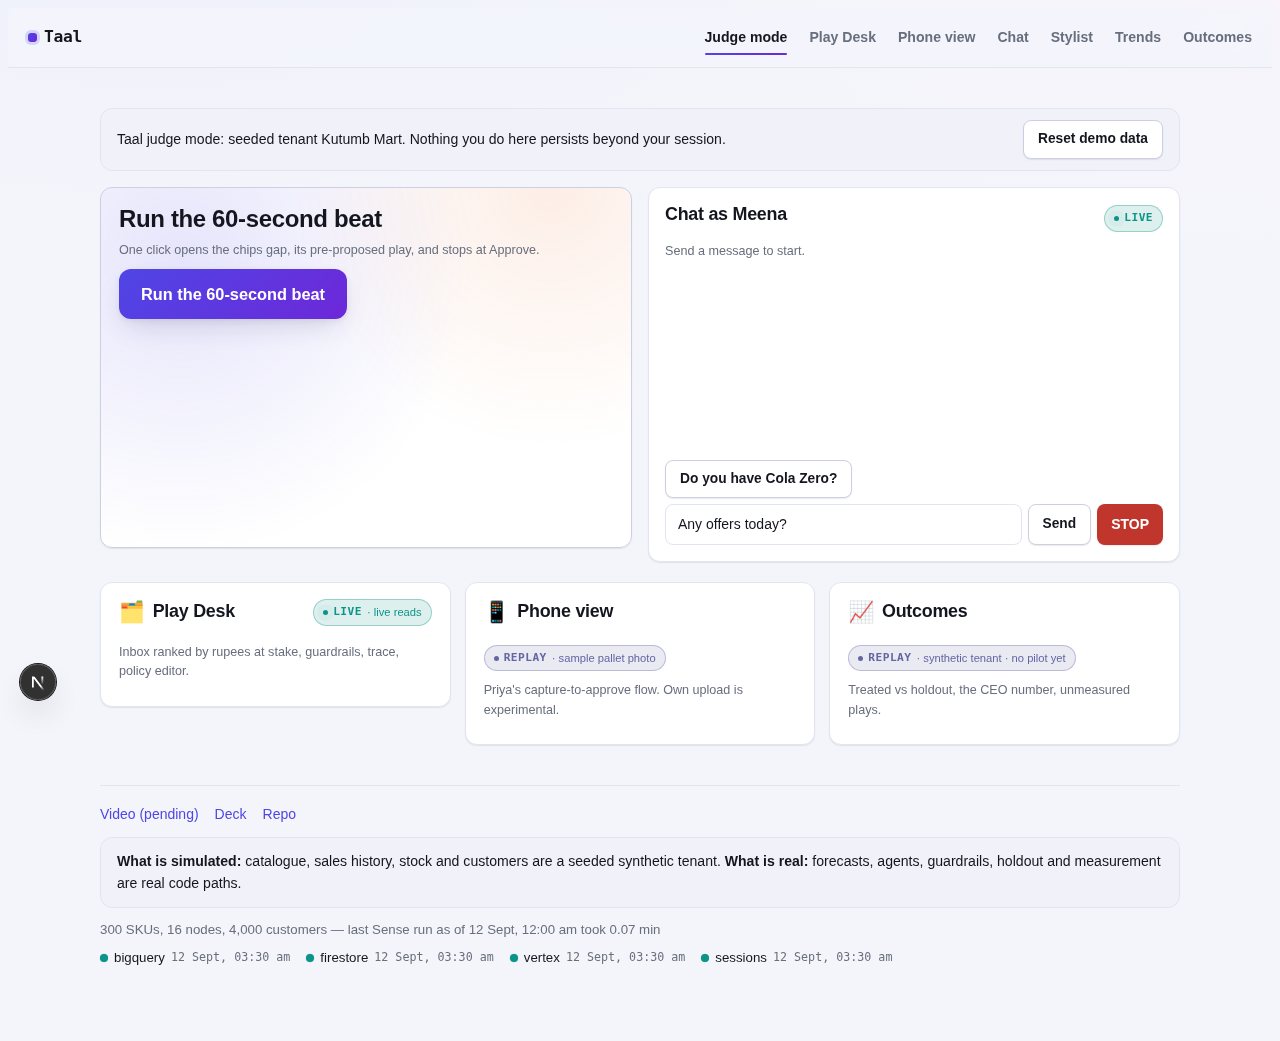
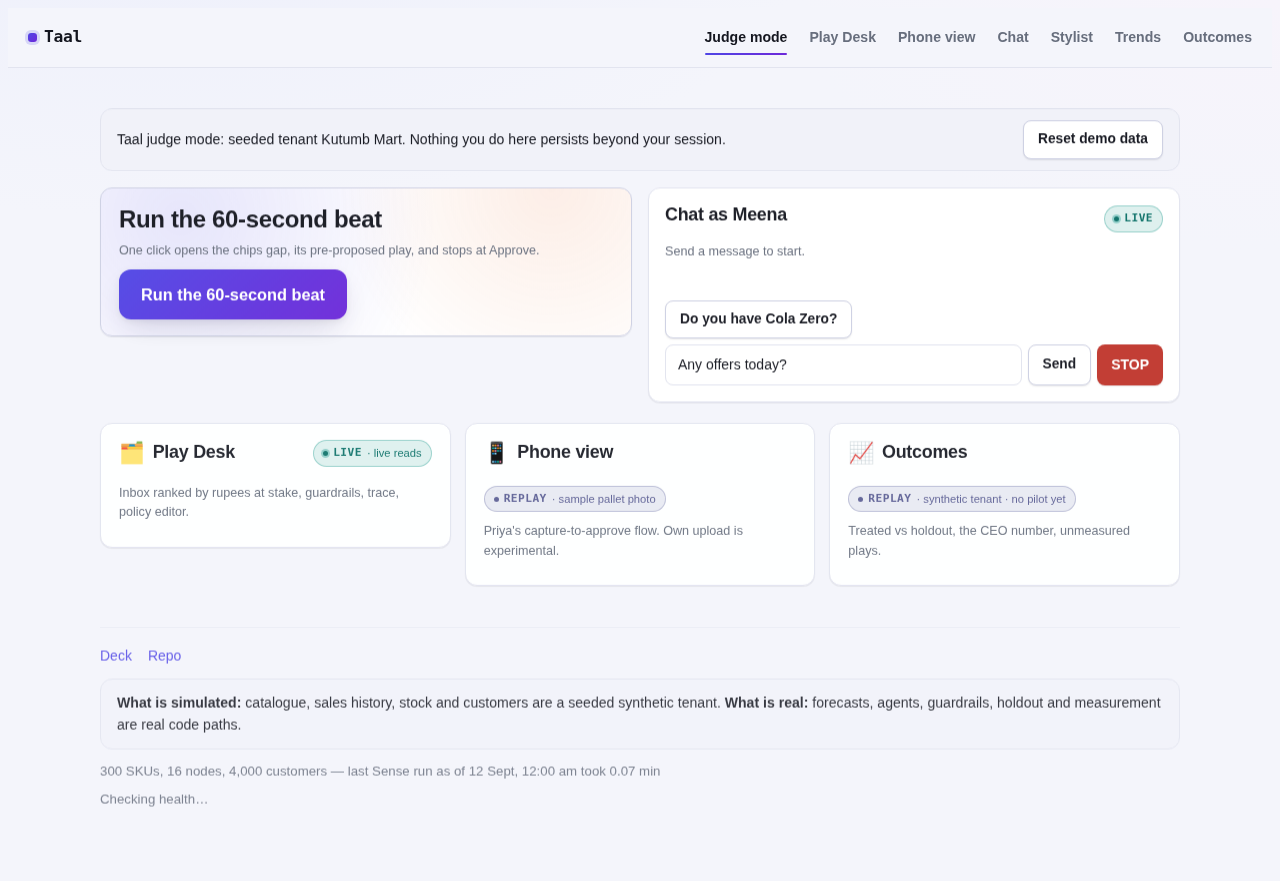
Fix sticky-nav contrast, oversized chat box, undersized hero chart
Confirmed all three in a real browser (Playwright against the live
stack) before changing anything:

- Sticky nav overlaying content mid-scroll (Play Desk, Stylist, and
  others): .top-nav's background was only 78% opaque, so scrolled-past
  headings and badges showed through at low contrast, visually
  colliding with the nav links sitting on top of them. Raised to 96%
  opaque; the backdrop blur now only softens the seam instead of
  doubling as the only separation.
- Oversized empty chat box (landing hero, standalone /chat and
  /stylist): .chat-panel__list had a 220px min-height, so a single
  "Send a message to start." line reserved a large blank area below
  it; on the landing page this was compounded by .chat-panel's
  `height: 100%` stretching to match the beat card's height as it grew
  through the walkthrough. Lowered the min-height to 60px, removed the
  stretch, and gave the hero grid `align-items: start` so each card
  sizes to its own content.
- Undersized hero chart: the forecast SVG's own canvas was a squat
  220px tall with 10px labels. Grown to 300px with more padding and
  12px labels -- it scales with its container either way (width:100%),
  so this makes the line and labels legible at the widths it actually
  renders at (hero half-card, play-detail sidebar) rather than
  changing any layout.

Recaptured all 7 docs/screenshots/ via the existing mechanism (make
api + make web against a production build for a stable server, then
[…]

diff --git a/web/app/globals.css b/web/app/globals.css
@@ -297,7 +297,10 @@ p {
   position: sticky;
   top: 0;
   z-index: 10;
-  background: color-mix(in srgb, var(--bg) 78%, transparent);
+  /* 78% opacity let scrolled-past headings and badges show through at low contrast, visually
+     colliding with the nav links sitting right on top of them (reported as the sticky nav
+     "overlaying content mid-scroll"). Nearly opaque, with the blur only softening the seam. */
+  background: color-mix(in srgb, var(--bg) 96%, transparent);
   backdrop-filter: blur(10px) saturate(1.4);
   -webkit-backdrop-filter: blur(10px) saturate(1.4);
 }
@@ -478,6 +481,11 @@ p {
   grid-template-columns: 1fr 1fr;
   gap: 16px;
   margin-bottom: 20px;
+  /* Without this, grid's default stretch forces both columns to the height of the taller one --
+     ChatPanel's height:100% + flex-grown message list then inflates to match the beat card as it
+     grows through the walkthrough, leaving a large empty gap under "Send a message to start."
+     Each card should size to its own content instead. */
+  align-items: start;
 }
 
 @media (max-width: 760px) {
@@ -685,7 +693,7 @@ textarea:focus-visible {
 
 .forecast-chart__line {
   fill: none;
-  stroke-width: 2.5;
+  stroke-width: 3;
 }
 
 .forecast-chart__line--baseline {
@@ -698,7 +706,7 @@ textarea:focus-visible {
 }
 
 .forecast-chart__label {
-  font-size: 10px;
+  font-size: 12px;
   fill: var(--text-muted);
   font-family: var(--font-mono), monospace;
 }
@@ -727,7 +735,11 @@ textarea:focus-visible {
   border-radius: var(--radius);
   box-shadow: var(--shadow-card);
   padding: 16px;
-  height: 100%;
+  /* No explicit height: on the landing page's two-column hero grid, `height: 100%` stretched
+     this to match the beat card's height as it grows through the walkthrough (even with the
+     grid's `align-items: start`), leaving a large empty gap under "Send a message to start."
+     The panel should size to its own content; the message list still scrolls internally once a
+     conversation grows past its max-height. */
 }
 
 .chat-panel__header {
@@ -746,7 +758,11 @@ textarea:focus-visible {
 
 .chat-panel__list {
   flex: 1;
-  min-height: 220px;
+  /* A 220px floor reserved an oversized blank area under a single "Send a message to start."
+     line, on both the landing hero and the standalone /chat and /stylist pages -- the list
+     should size to its own messages (up to max-height) and only grow once there is a real
+     conversation to scroll. */
+  min-height: 60px;
   max-height: 420px;
   overflow-y: auto;
   display: flex;

diff --git a/web/components/ForecastChart.tsx b/web/components/ForecastChart.tsx
@@ -2,12 +2,16 @@ import type { Forecast } from "../lib/types";
 
 // Inline SVG line chart: baseline_p50 vs play_p50 (no chart library, per spec).
 export function ForecastChart({ forecast }: { forecast: Forecast }) {
+  // The forecast chart is the hero visual of the 60-second beat (README: "watch the forecast
+  // line move") -- a squat 220px-tall canvas with 10px labels read as an afterthought squeezed
+  // into half a card. Taller canvas and larger padding/labels give the line room to be legible
+  // at the widths it actually renders at (a hero half-card or a play-detail sidebar).
   const width = 640;
-  const height = 220;
-  const padTop = 16;
-  const padBottom = 28;
-  const padLeft = 16;
-  const padRight = 16;
+  const height = 300;
+  const padTop = 24;
+  const padBottom = 34;
+  const padLeft = 20;
+  const padRight = 20;
   const series = forecast.series;
 
   if (series.length === 0) {
